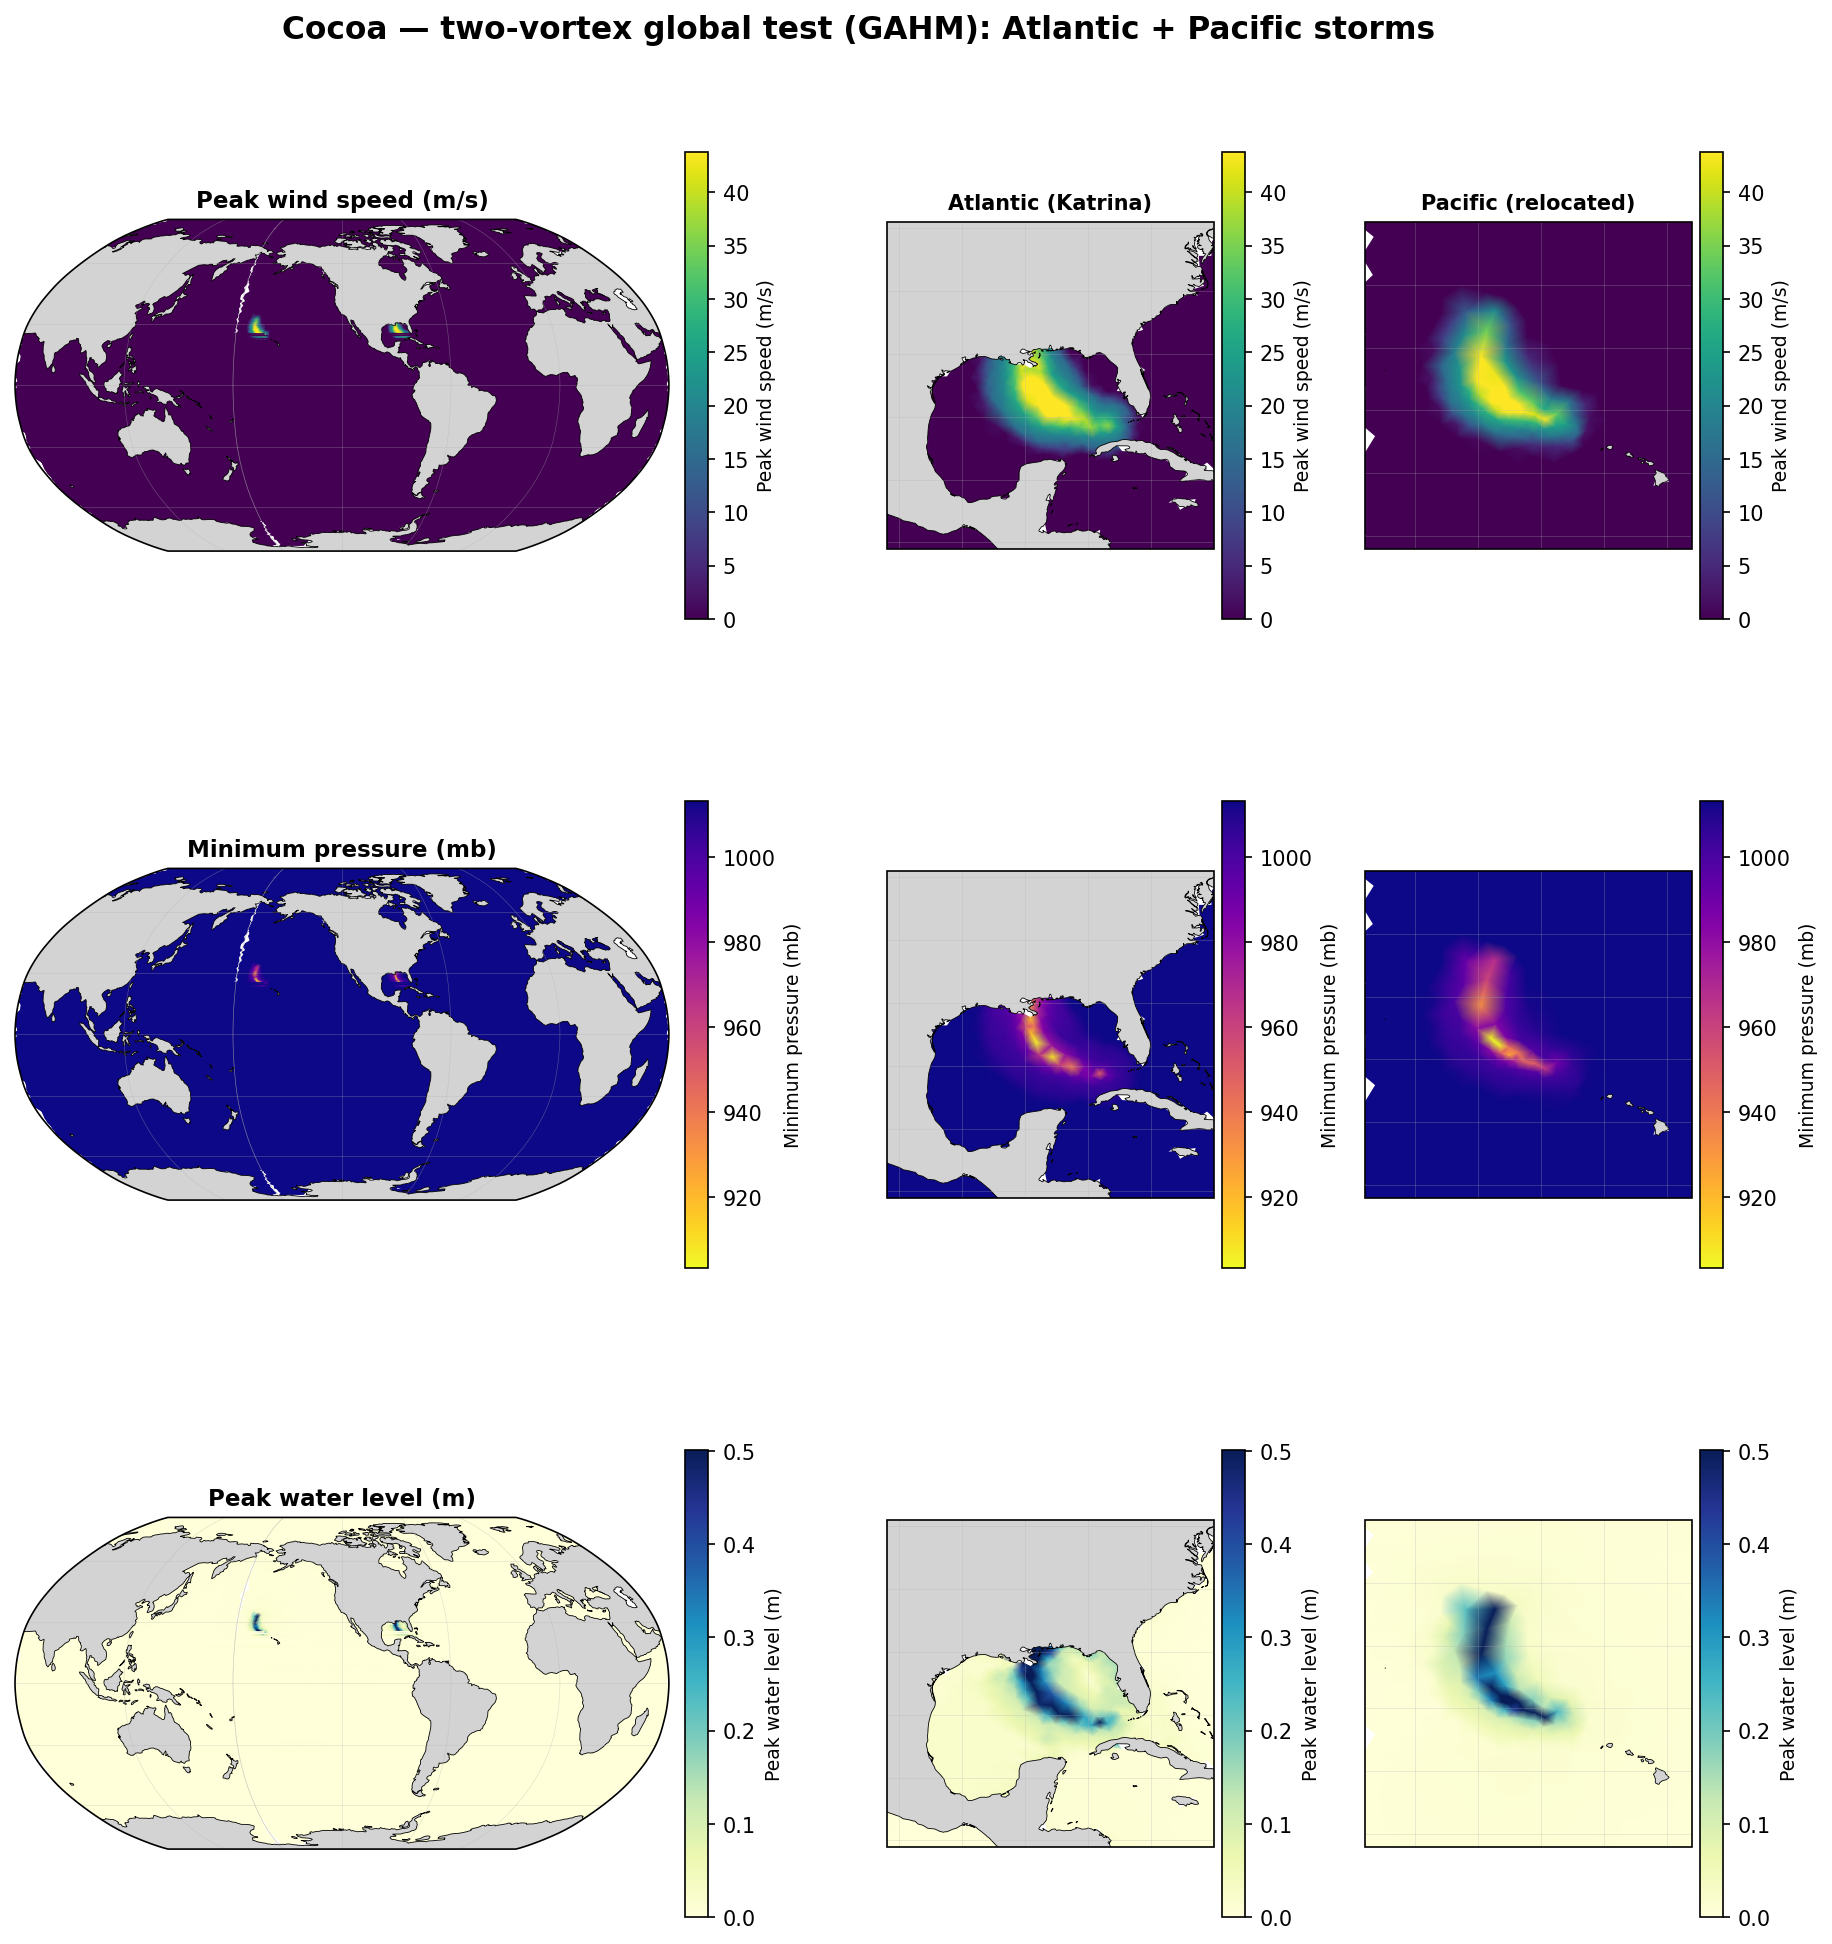
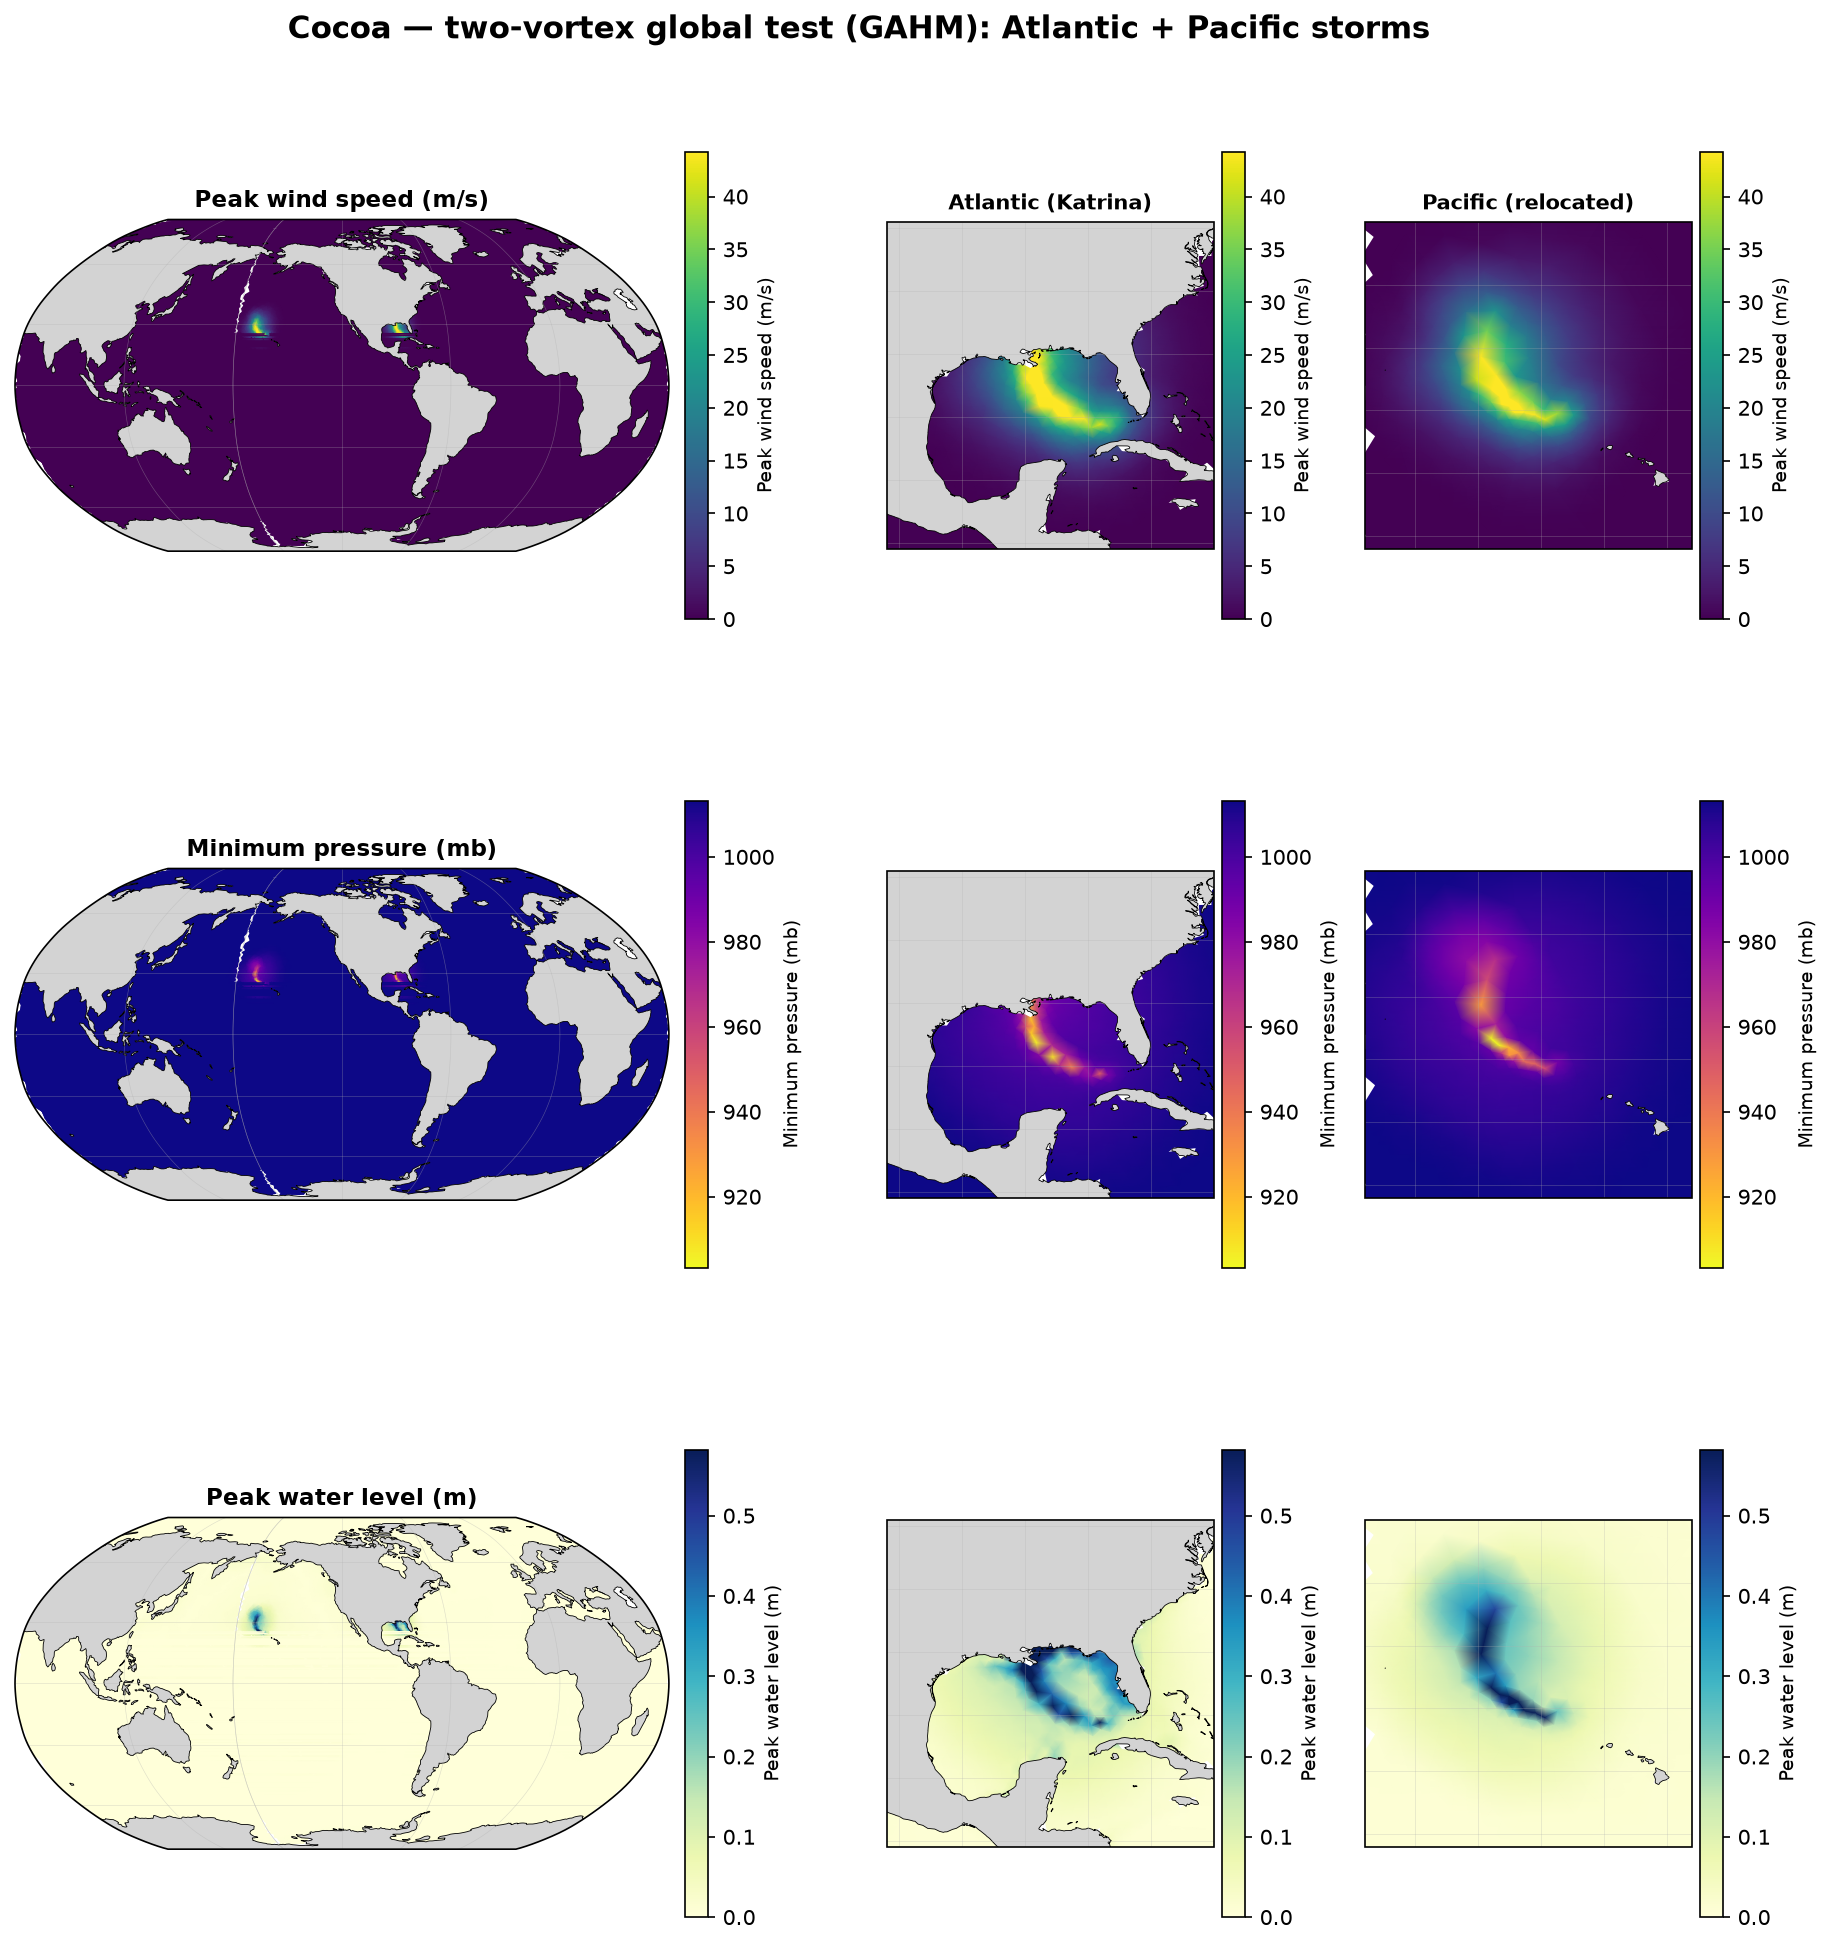
Update global_two_vortex to the current formats
Output keys move under output.global, the plot script reads lon/lat,
and the figure is regenerated with the rewritten GAHM vortex.

diff --git a/global_two_vortex/plot_two_vortex.py b/global_two_vortex/plot_two_vortex.py
@@ -45,8 +45,8 @@ INSET_HALF_WIDTH = 13.0  # degrees around each storm center
 def load_peak(path: Path) -> dict[str, np.ndarray]:
     ds = Dataset(path, "r")
     data = {
-        "x": np.array(ds.variables["x"][:]),
-        "y": np.array(ds.variables["y"][:]),
+        "x": np.array(ds.variables["lon"][:]),
+        "y": np.array(ds.variables["lat"][:]),
         "elements": np.array(ds.variables["element"][:]) - 1,
         "zeta_max": np.array(ds.variables["zeta_max"][:]),
         "wind_max": np.array(ds.variables["wind_max"][:]),
